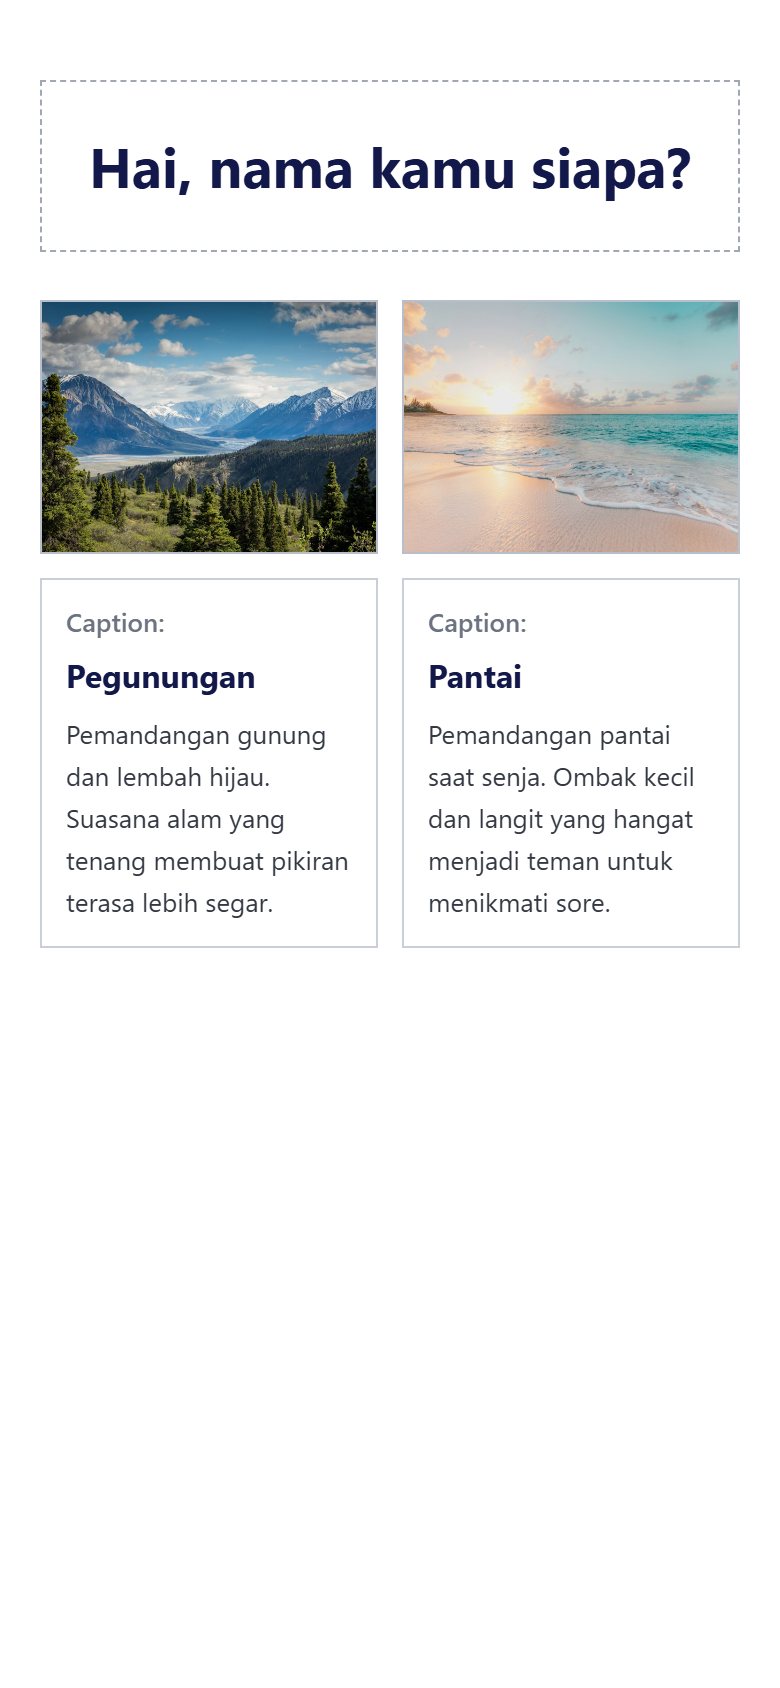
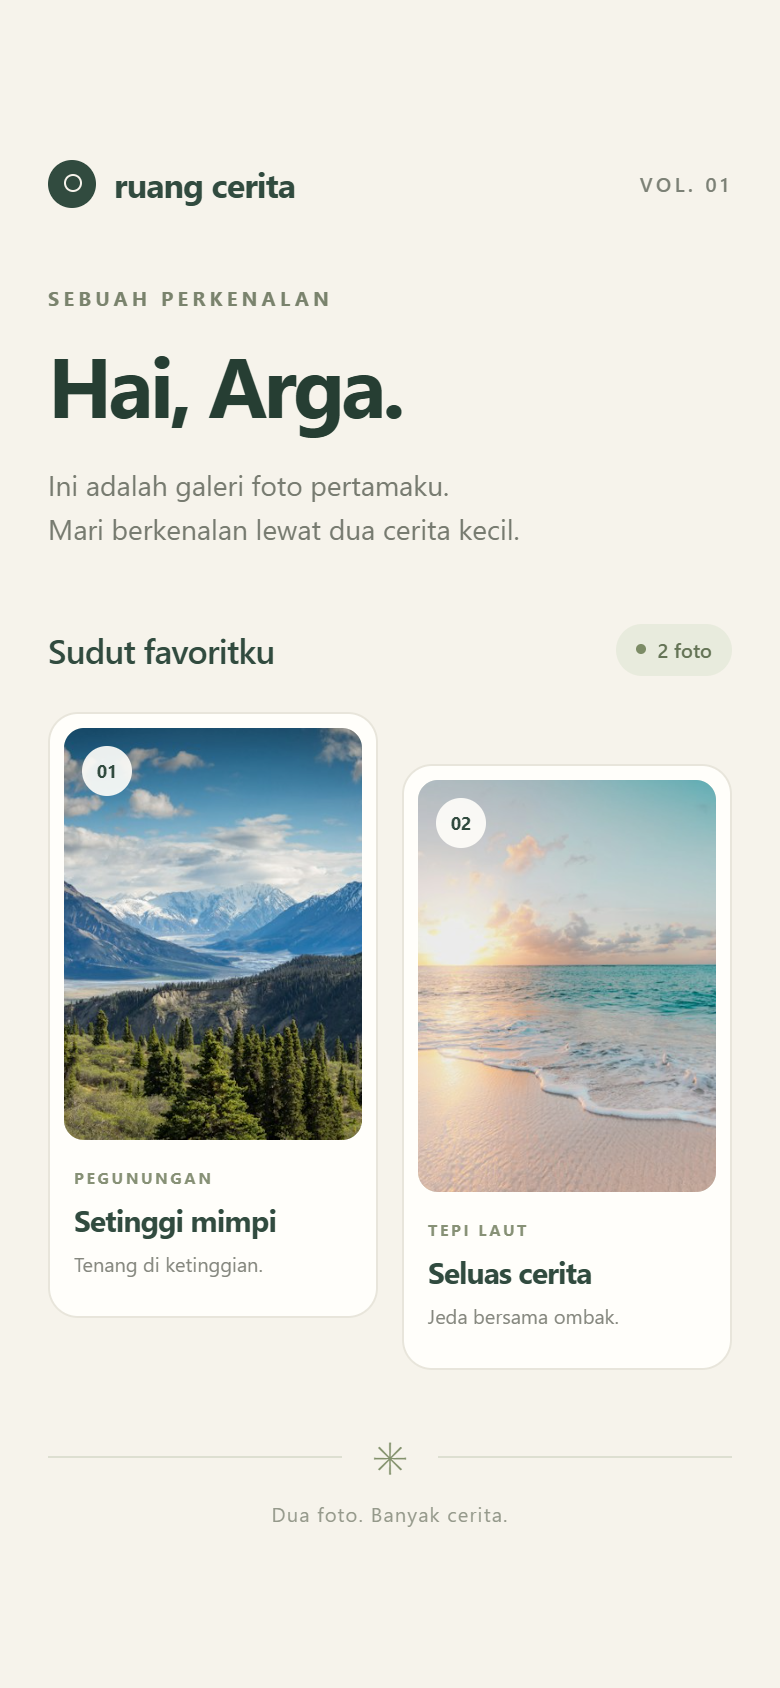
Restore original gallery design with Arga greeting

diff --git a/App.js b/App.js
@@ -9,13 +9,36 @@ export default function App() {
         <StatusBar style="dark" />
         <ScrollView contentContainerStyle={styles.scrollContent}>
           <View style={styles.content}>
-            <View style={styles.header}>
+            <View style={styles.brand}>
+              <View style={styles.brandMark}>
+                <View style={styles.brandMarkInner} />
+              </View>
+              <Text style={styles.brandName}>ruang cerita</Text>
+              <Text style={styles.edition}>VOL. 01</Text>
+            </View>
+
+            <View style={styles.intro}>
+              <Text style={styles.eyebrow}>SEBUAH PERKENALAN</Text>
               <Text accessibilityRole="header" style={styles.heading}>
-                Hai, nama kamu siapa?
+                Hai, Arga.
+              </Text>
+              <Text style={styles.subtitle}>
+                Ini adalah galeri foto pertamaku.
+                {'\n'}Mari berkenalan lewat dua cerita kecil.
               </Text>
             </View>
 
-            {/* Dua foto landscape berdampingan menggunakan Flexbox. */}
+            <View style={styles.galleryHeading}>
+              <Text accessibilityRole="header" style={styles.galleryTitle}>
+                Sudut favoritku
+              </Text>
+              <View style={styles.countBadge}>
+                <View style={styles.dot} />
+                <Text style={styles.countText}>2 foto</Text>
+              </View>
+            </View>
+
+            {/* Flexbox row membuat kedua foto selalu berdampingan. */}
             <View style={styles.gallery}>
               <View style={styles.photoCard}>
                 <View style={styles.imageFrame}>
@@ -25,36 +48,43 @@ export default function App() {
                     resizeMode="cover"
                     accessibilityLabel="Pemandangan pegunungan dengan lembah dan pepohonan hijau"
                   />
+                  <View style={styles.photoNumber}>
+                    <Text style={styles.photoNumberText}>01</Text>
+                  </View>
                 </View>
                 <View style={styles.caption}>
-                  <Text style={styles.captionLabel}>Caption:</Text>
-                  <Text style={styles.captionTitle}>Pegunungan</Text>
-                  <Text style={styles.captionText}>
-                    Pemandangan gunung dan lembah hijau. Suasana alam yang tenang
-                    membuat pikiran terasa lebih segar.
-                  </Text>
+                  <Text style={styles.photoCategory}>PEGUNUNGAN</Text>
+                  <Text style={styles.photoTitle}>Setinggi mimpi</Text>
+                  <Text style={styles.photoDescription}>Tenang di ketinggian.</Text>
                 </View>
               </View>
 
-              <View style={styles.photoCard}>
+              <View style={[styles.photoCard, styles.secondCard]}>
                 <View style={styles.imageFrame}>
                   <Image
                     source={require('./assets/foto2.jpg')}
                     style={styles.photo}
                     resizeMode="cover"
-                    accessibilityLabel="Pantai berpasir putih dan ombak laut saat senja"
+                    accessibilityLabel="Ombak di pantai berpasir putih saat senja"
                   />
+                  <View style={styles.photoNumber}>
+                    <Text style={styles.photoNumberText}>02</Text>
+                  </View>
                 </View>
                 <View style={styles.caption}>
-                  <Text style={styles.captionLabel}>Caption:</Text>
-                  <Text style={styles.captionTitle}>Pantai</Text>
-                  <Text style={styles.captionText}>
-                    Pemandangan pantai saat senja. Ombak kecil dan langit yang
-                    hangat menjadi teman untuk menikmati sore.
-                  </Text>
+                  <Text style={styles.photoCategory}>TEPI LAUT</Text>
+                  <Text style={styles.photoTitle}>Seluas cerita</Text>
+                  <Text style={styles.photoDescription}>Jeda bersama ombak.</Text>
                 </View>
               </View>
             </View>
+
+            <View style={styles.footer}>
+              <View style={styles.footerLine} />
+              <Text style={styles.footerSymbol}>✳</Text>
+              <View style={styles.footerLine} />
+            </View>
+            <Text style={styles.footerText}>Dua foto. Banyak cerita.</Text>
           </View>
         </ScrollView>
       </SafeAreaView>
@@ -63,77 +93,39 @@ export default function App() {
 }
 
 const styles = StyleSheet.create({
-  container: {
-    flex: 1,
-    backgroundColor: '#FFFFFF',
+  container: { flex: 1, backgroundColor: '#F6F3EB' },
+  scrollContent: { flexGrow: 1, justifyContent: 'center', paddingVertical: 36 },
+  content: { width: '100%', maxWidth: 520, alignSelf: 'center', paddingHorizontal: 24 },
+  brand: { flexDirection: 'row', alignItems: 'center', gap: 9 },
+  brandMark: {
+    width: 24, height: 24, borderRadius: 12, backgroundColor: '#314B3F',
+    alignItems: 'center', justifyContent: 'center',
   },
-  scrollContent: {
-    flexGrow: 1,
-    paddingVertical: 40,
-  },
-  content: {
-    width: '100%',
-    maxWidth: 760,
-    alignSelf: 'center',
-    paddingHorizontal: 20,
-  },
-  header: {
-    borderWidth: 1,
-    borderStyle: 'dashed',
-    borderColor: '#A1A7B3',
-    paddingHorizontal: 16,
-    paddingVertical: 24,
-    marginBottom: 24,
-  },
-  heading: {
-    color: '#121849',
-    fontSize: 28,
-    lineHeight: 36,
-    fontWeight: '700',
-    textAlign: 'center',
-  },
-  gallery: {
-    flexDirection: 'row',
-    gap: 12,
-    alignItems: 'stretch',
-  },
-  photoCard: {
-    flex: 1,
-    minWidth: 0,
-  },
-  imageFrame: {
-    aspectRatio: 4 / 3,
-    borderWidth: 1,
-    borderColor: '#B8BECA',
-    backgroundColor: '#EEF0F4',
-    overflow: 'hidden',
-  },
-  photo: {
-    width: '100%',
-    height: '100%',
-  },
-  caption: {
-    flex: 1,
-    borderWidth: 1,
-    borderColor: '#C9CED7',
-    padding: 12,
-    marginTop: 12,
-  },
-  captionLabel: {
-    fontSize: 13,
-    fontWeight: '600',
-    color: '#6B7280',
-    marginBottom: 8,
-  },
-  captionTitle: {
-    fontSize: 16,
-    fontWeight: '700',
-    color: '#121849',
-    marginBottom: 8,
-  },
-  captionText: {
-    fontSize: 13,
-    lineHeight: 21,
-    color: '#333842',
-  },
+  brandMarkInner: { width: 9, height: 9, borderRadius: 5, borderWidth: 1.5, borderColor: '#F6F3EB' },
+  brandName: { flex: 1, fontSize: 17, fontWeight: '700', color: '#314B3F', letterSpacing: -0.5 },
+  edition: { fontSize: 10, letterSpacing: 1.8, fontWeight: '600', color: '#7C8176' },
+  intro: { marginTop: 38 },
+  eyebrow: { fontSize: 10, fontWeight: '700', letterSpacing: 2.1, color: '#7A836D', marginBottom: 13 },
+  heading: { maxWidth: 340, fontSize: 42, lineHeight: 47, fontWeight: '700', letterSpacing: -1.9, color: '#263E33' },
+  subtitle: { fontSize: 14, lineHeight: 22, color: '#777B70', marginTop: 16 },
+  galleryHeading: { flexDirection: 'row', alignItems: 'center', justifyContent: 'space-between', marginTop: 36, marginBottom: 18 },
+  galleryTitle: { fontSize: 17, fontWeight: '600', color: '#314B3F', letterSpacing: -0.4 },
+  countBadge: { flexDirection: 'row', alignItems: 'center', gap: 6, backgroundColor: '#E8EBDD', borderRadius: 20, paddingHorizontal: 10, paddingVertical: 6 },
+  dot: { width: 5, height: 5, borderRadius: 3, backgroundColor: '#7C8C66' },
+  countText: { color: '#657456', fontSize: 10, fontWeight: '600' },
+  gallery: { flexDirection: 'row', gap: 12, alignItems: 'flex-start' },
+  photoCard: { flex: 1, minWidth: 0, backgroundColor: '#FFFEFA', padding: 7, borderRadius: 15, borderWidth: 1, borderColor: '#E8E5DB' },
+  secondCard: { marginTop: 26 },
+  imageFrame: { aspectRatio: 0.72, borderRadius: 10, overflow: 'hidden', position: 'relative', backgroundColor: '#DFE4D9' },
+  photo: { width: '100%', height: '100%' },
+  photoNumber: { position: 'absolute', left: 9, top: 9, width: 25, height: 25, alignItems: 'center', justifyContent: 'center', borderRadius: 13, backgroundColor: '#FFFEFAE8' },
+  photoNumberText: { fontSize: 9, fontWeight: '700', color: '#314B3F' },
+  caption: { paddingHorizontal: 5, paddingTop: 13, paddingBottom: 11 },
+  photoCategory: { fontSize: 8, fontWeight: '700', letterSpacing: 1.3, color: '#879176', marginBottom: 6 },
+  photoTitle: { fontSize: 15, fontWeight: '700', color: '#314B3F', letterSpacing: -0.5 },
+  photoDescription: { fontSize: 10, color: '#85877E', marginTop: 5, lineHeight: 15 },
+  footer: { flexDirection: 'row', alignItems: 'center', gap: 14, marginTop: 28 },
+  footerLine: { flex: 1, height: 1, backgroundColor: '#DDDFD1' },
+  footerSymbol: { fontSize: 22, color: '#83916C' },
+  footerText: { textAlign: 'center', color: '#95998B', fontSize: 10, letterSpacing: 0.6, marginTop: 7 },
 });

diff --git a/README.md b/README.md
@@ -2,7 +2,7 @@
 
 Tugas kuliah untuk latihan layout sederhana menggunakan React Native dan Expo SDK 57.
 
-Aplikasi menampilkan teks perkenalan, dua foto landscape dari folder lokal secara berdampingan, dan caption di bawah setiap foto. Layout dibuat menggunakan `View`, `Text`, `Image`, `StyleSheet`, dan Flexbox.
+Aplikasi menampilkan sapaan **Hai, Arga.**, dua foto dari folder lokal secara berdampingan, dan caption di bawah setiap foto. Layout dibuat menggunakan `View`, `Text`, `Image`, `StyleSheet`, dan Flexbox.
 
 ## Menjalankan
 
